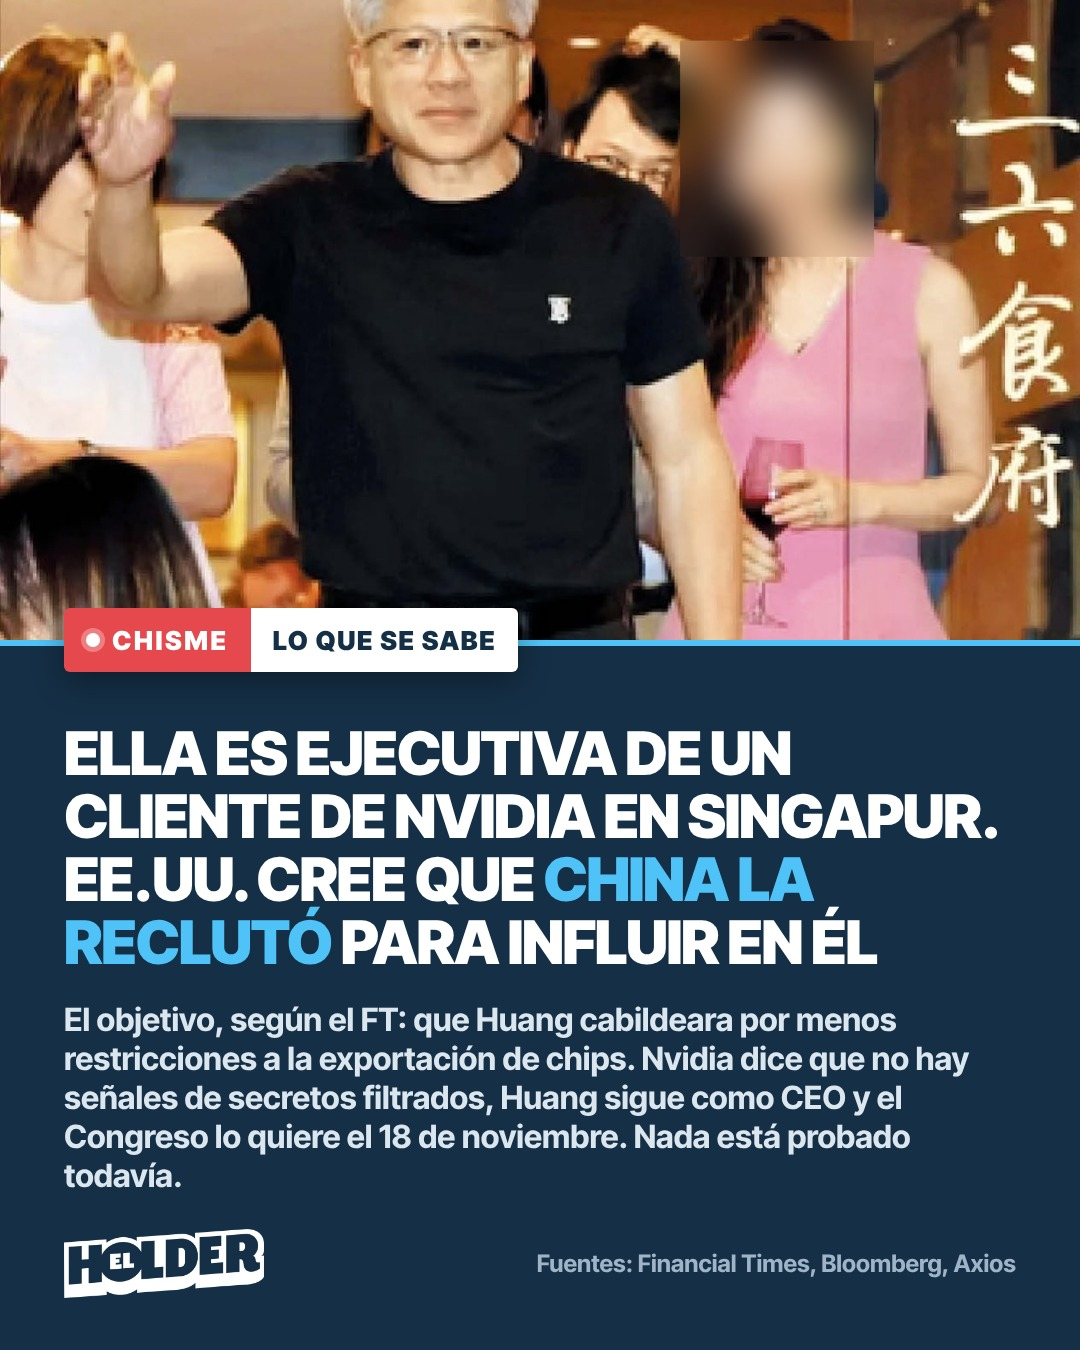
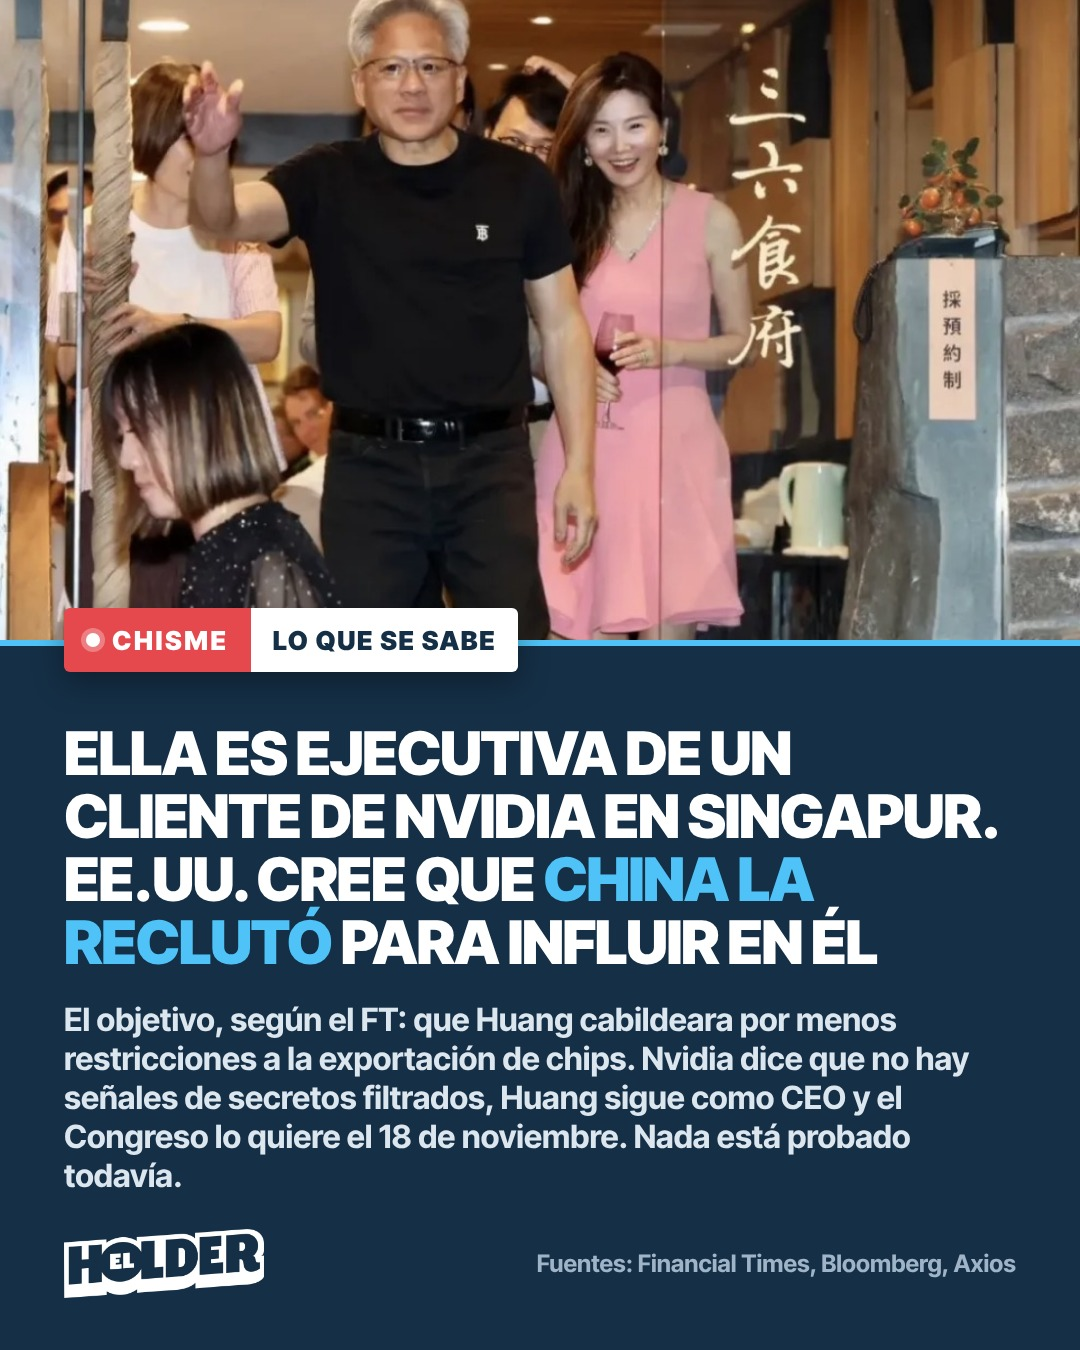
Jensen Huang: slide 2 con nueva foto
Claude-Session: https://claude.ai/code/session_011HtJt2a4sBpoKNENnst7wy

diff --git a/carruseles/2026-11-08-jensen-huang/src/slide-02.html b/carruseles/2026-11-08-jensen-huang/src/slide-02.html
@@ -4,7 +4,7 @@
 @font-face{font-family:'IT';font-weight:900;src:url('../../../fonts/inter-tight-latin-900-normal.woff2')}
 html,body{margin:0}*{box-sizing:border-box}
 body{width:1080px;height:1350px;position:relative;overflow:hidden;background:#152F46;font-family:'IT';color:#fff}
-#foto{position:absolute;left:0;top:0;width:1080px;height:640px;background:url(foto2.jpg) center 30%/cover}
+#foto{position:absolute;left:0;top:0;width:1080px;height:640px;background:url(foto2.jpg) center 25%/cover}
 #bar{position:absolute;left:0;top:640px;width:1080px;height:6px;background:#4FC3F7}
 #pill{position:absolute;left:64px;top:608px;display:flex;align-items:stretch;height:64px;border-radius:6px;overflow:hidden;box-shadow:0 10px 30px rgba(0,0,0,.35)}
 #pill .l{display:flex;align-items:center;gap:12px;background:#E5484D;color:#fff;font-weight:900;font-size:26px;letter-spacing:.1em;padding:0 22px}
